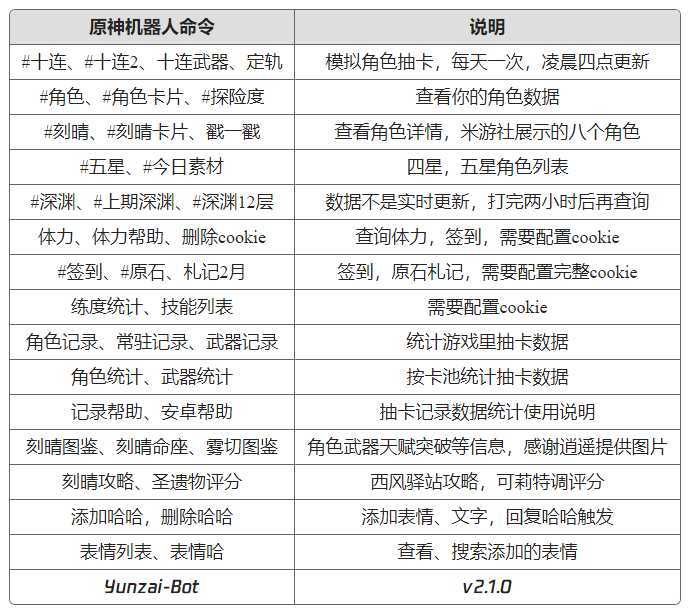
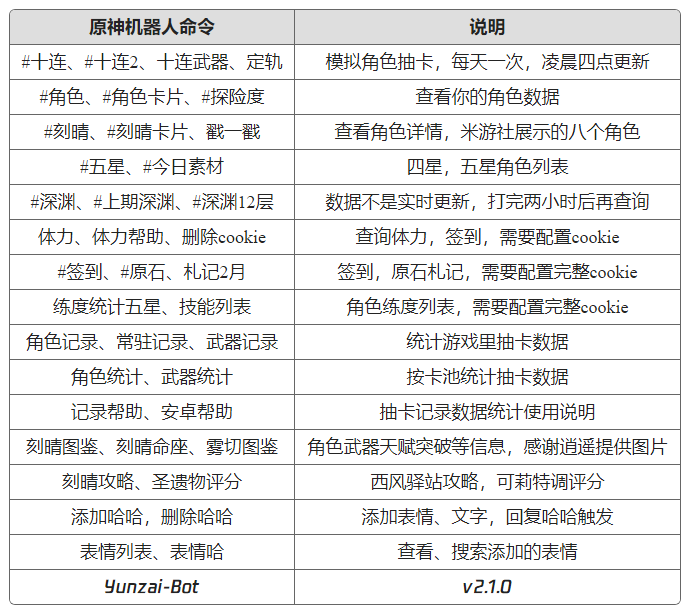
#练度统计，增加四星五星区分

Changed region(s): [[0.487, 0.4642, 0.913, 0.5261], [0.0609, 0.4642, 0.3652, 0.5261]]

diff --git a/lib/app/mysInfo.js b/lib/app/mysInfo.js
@@ -79,7 +79,7 @@ export const rule = {
     describe: "【#今日素材】查看今天可以刷什么角色的",
   },
   talentList: {
-    reg: "^#*(我的)?(技能|天赋|武器|角色|练度)+(汇总|统计|列表)(force)?$",
+    reg: "^#*(我的)?(技能|天赋|武器|角色|练度)+(汇总|统计|列表)(force|五|四|5|4|星)*$",
     priority: 206,
     describe: "【#技能列表、#练度统计】查看所有角色技能列表",
   }
@@ -1052,6 +1052,12 @@ export async function talentList(e) {
   // }
 
   const displayMode = /(角色|武器|练度)/.test(e.msg) ? "weapon" : "talent";
+
+  //四星五星
+  let star = 0;
+  if(/(四|4)/.test(msg)) star = 4;
+  if(/(五|5)/.test(msg)) star = 5;
+
   if (!res.uid && res.isSelf) {
     e.reply("请先发送#+你游戏的uid");
     return true;
@@ -1104,7 +1110,7 @@ export async function talentList(e) {
 
         skillRet = await Promise.all(skillRet);
         //过滤没有获取成功的
-        skillRet.filter(item => item.a);
+        skillRet = skillRet.filter(item => item.a);
         
         await common.sleep(ms);
       }
@@ -1179,6 +1185,11 @@ export async function talentList(e) {
     delete skillLoading[e.user_id];
   }
 
+  //超过八个角色才分类四星五星
+  if(star>=4 && avatarRet.length>8){
+    //俄洛伊rarity是105...
+    avatarRet = avatarRet.filter(item => item.rarity>5?5:item.rarity == star);
+  }
 
   let base64 = await render("genshin", "talentList", {
     save_id: uid,

diff --git a/resources/help/help.html b/resources/help/help.html
@@ -99,8 +99,8 @@
           <td>签到，原石札记，需要配置完整cookie</td>
         </tr>
         <tr>
-          <td>练度统计、技能列表</td>
-          <td>需要配置完整cookie</td>
+          <td>练度统计五星、技能列表</td>
+          <td>角色练度列表，需要配置完整cookie</td>
         </tr>
         <tr>
           <td>角色记录、常驻记录、武器记录</td>
